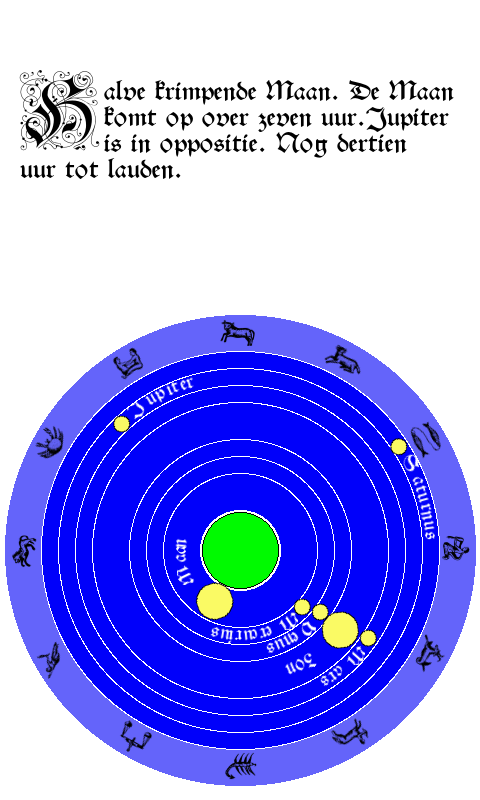
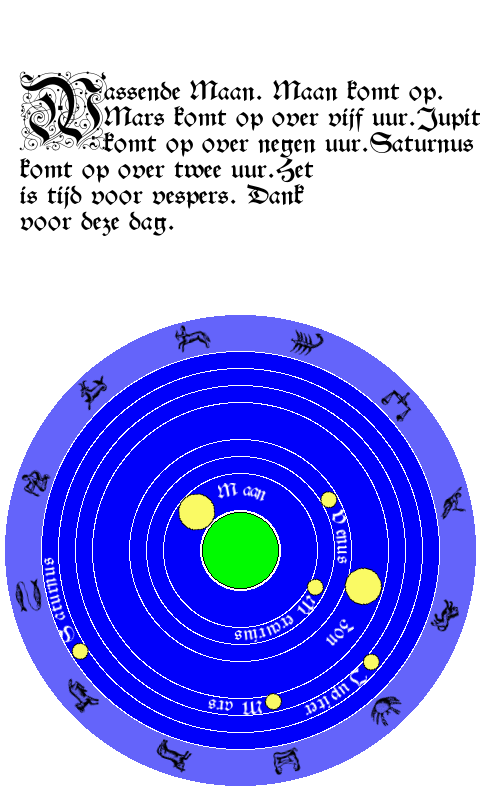
Foutje in getijden bericht gecorrigeerd

diff --git a/ptolemeus.py b/ptolemeus.py
@@ -158,7 +158,8 @@ def getijden(op,onder,t):
     top = int(op-t+0.5)%24
     tonder = int(onder-t+0.5)%24
     getijde = ""
-    if (t > op and t < onder): getijde = "Nog "+uurnaam[tonder]+" uur tot vespers. "
+    print (op,onder,t,top,tonder)
+    if (t > op and t < onder and tonder != 0): getijde = "Nog "+uurnaam[tonder]+" uur tot vespers. "
     if (t > onder and top > 0): getijde = "Nog "+uurnaam[top]+" uur tot lauden. "
     if (top == 0): getijde = "Het is tijd voor lauden. Prijs de dag. "
     if (tonder == 0): getijde = "Het is tijd voor vespers. Dank voor deze dag. "
@@ -299,7 +300,7 @@ for naam in planeet:
     # als de planeet meer dan een uur van de Zon staat
     utop = int(op-lokaletijd*24+0.5)%24
     utonder = int(onder-lokaletijd*24+0.5)%24
-    print (naam,lokaletijd*24,utop,onder,utonder)
+    # print (naam,lokaletijd*24,utop,onder,utonder)
     if (rlengte > 15.0 and rlengte < 345.0 and naam != "Zon"):
         if (utop > 0 and utop < 12):
             if (naam == "Maan"): tekst += "De "
@@ -315,9 +316,11 @@ r += w+1
 teken_dierenriem(r,LMST*360,w)
 beschrijving(tekst)
 
-ikoon.save('ptolemeus.png')
-ikoon.show()
-# ikoon_gedraaid = ikoon.rotate((270), expand=True,center=(ikoon.width/2,ikoon.height/2))
+print (tekst)
+
+ikoon.save(pad+'/ptolemeus.png')
+# ikoon.show()
+# ikoon_gedraaid = ikoon.rotate((90), expand=True,center=(ikoon.width/2,ikoon.height/2))
 # display = auto()
 # display.set_image(ikoon_gedraaid)
 # display.show()
